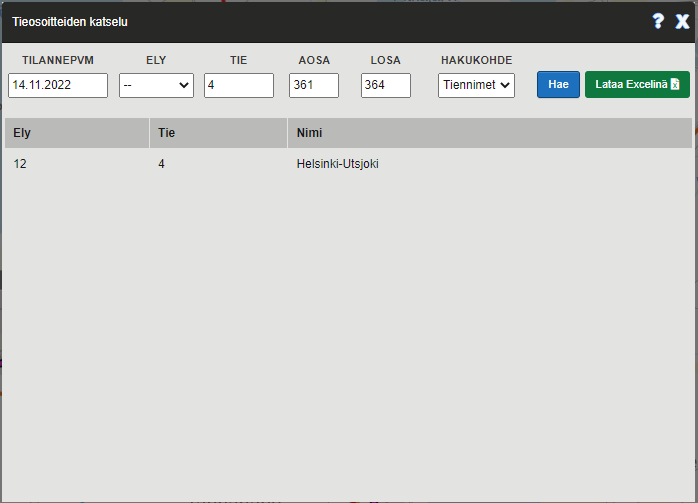
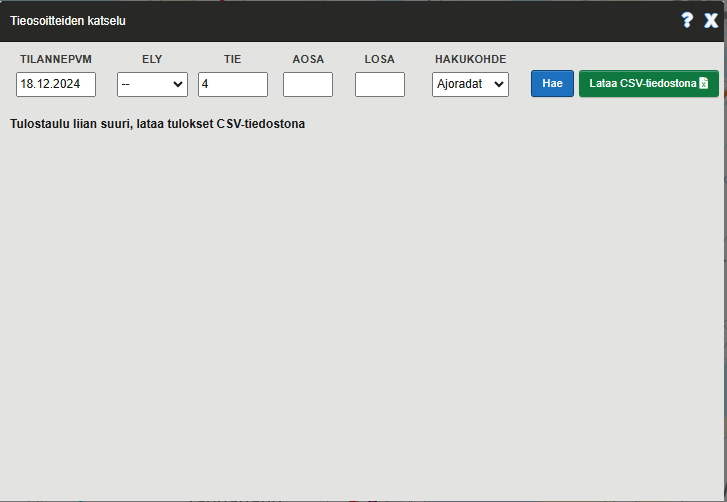
VIITE-3269 switch to CSV download (instead of SheetJS excel export.)
SheetJS library didn't behave as we expected, causing all kinds of problems with dates.

New implementation allows users to download data in a CSV-file. The data should stay untouched this way and there shouldn't be any issues with dates no more.

diff --git a/viite-UI/src/view/RoadAddressBrowserWindow.js b/viite-UI/src/view/RoadAddressBrowserWindow.js
@@ -325,13 +325,14 @@
             $('.road-address-browser-modal-overlay').remove();
         }
 
-        function exportDataAsExcelFile() {
+        function exportDataAsCsvFile() {
+            function arrayToCSV(data) {
+                return data.map(row => row.join(";")).join("\n");
+            }
+
             const params = me.getSearchParams();
-            const fileNameString = "Viite_" + params.target + "_" + params.situationDate + "_" + params.ely + "_" + params.roadNumber + "_" + params.minRoadPartNumber + "_" + params.maxRoadPartNumber + ".xlsx";
+            const fileNameString = "Viite_" + params.target + "_" + params.situationDate + "_" + params.ely + "_" + params.roadNumber + "_" + params.minRoadPartNumber + "_" + params.maxRoadPartNumber + ".csv";
             const fileName = fileNameString.replaceAll("undefined", "-");
-            const options = {
-                cellDates: false  // To prevent Sheetjs from converting dates to avoid unwanted formatting
-            };
 
             let data = [];
             switch (params.target) {
@@ -352,22 +353,22 @@
                     break;
                 default:
             }
-            // Create a web worker
-            const worker = new Worker("src/utils/SheetJsWorker.js");
-            // Send data to the web worker to process
-            worker.postMessage([data, options]);
-            applicationModel.addSpinner();
-            worker.onmessage = function(event) { // listen to messages from the web worker
-                const worksheet = event.data;
-                const workbook = XLSX.utils.book_new();
-                XLSX.utils.book_append_sheet(workbook, worksheet);
-                XLSX.writeFile(workbook, fileName);
-                applicationModel.removeSpinner();
-            };
-            worker.onerror = (event) => {
-                applicationModel.removeSpinner();
-                console.log("There was an error with the web worker!", event.message);
-            };
+            let csvContent = "\uFEFF"; // UTF-8 BOM
+            csvContent += arrayToCSV(data);
+
+            // Create a downloadable CSV file
+            const blob = new Blob([csvContent], { type: "text/csv;charset=utf-8;"}); // Create a file like object containing the CSV data
+            const url = URL.createObjectURL(blob); // Create a temporary URL for the file
+            const link = document.createElement("a");
+            link.setAttribute("href", url)
+            link.setAttribute("download", fileName)
+
+            // Append the link and trigger download
+            document.body.appendChild(link);
+            link.click();
+
+            // Cleanup
+            document.body.removeChild(link);
         }
 
         function getData() {
@@ -481,15 +482,12 @@
 
         function showData(table) {
             roadAddrBrowserWindow.append(table);
-            //TODO VIITE-3269 CSV export to replace old Excel export
-            //$('#exportAsExcelFile').prop("disabled", false); // enable Excel download button
+            $('#exportAsCsvFile').prop("disabled", false); // enable CSV download button
         }
 
         function showTableTooBigNotification() {
-            roadAddrBrowserWindow.append($('<p id="tableNotification"><b>Tulostaulu liian suuri</b></p>'));
-            //TODO VIITE-3269 CSV export to replace old Excel export
-            //roadAddrBrowserWindow.append($('<p id="tableNotification"><b>Tulostaulu liian suuri, lataa tulokset Excel-taulukkona</b></p>'));
-            //$('#exportAsExcelFile').prop("disabled", false); // enable Excel download button
+            roadAddrBrowserWindow.append($('<p id="tableNotification"><b>Tulostaulu liian suuri, lataa tulokset CSV-tiedostona</b></p>'));
+            $('#exportAsCsvFile').prop("disabled", false); // enable CSV download button
         }
 
         function showNoResultsFoundNotification() {
@@ -518,11 +516,10 @@
             });
         }
 
-        function clearResultsAndDisableExcelButton() {
+        function clearResultsAndDisableCsvButton() {
             me.setSearchResults([]); // empty the search results
             $('.road-address-browser-window-results-table').remove(); // empty the result table
-            //TODO VIITE-3269 CSV export to replace old Excel export
-            //$('#exportAsExcelFile').prop("disabled", true); //disable Excel download button
+            $('#exportAsCsvFile').prop("disabled", true); //disable CSV download button
             $('#tableNotification').remove(); // remove notification if present
         }
 
@@ -530,7 +527,7 @@
 
             // if any of the input fields change (the input fields are child elements of this wrapper/parent element)
             document.getElementById('roadAddressBrowser').onchange = function () {
-                clearResultsAndDisableExcelButton();
+                clearResultsAndDisableCsvButton();
             };
 
             document.getElementById('roadAddrInputRoad').oninput = function () {
@@ -575,17 +572,16 @@
                 }
             };
 
-            //TODO VIITE-3269 CSV export to replace old Excel export
-            // roadAddrBrowserWindow.on('click', '#exportAsExcelFile', function () {
-            //     exportDataAsExcelFile();
-            //     return false; // cancel form submission
-            // });
+            roadAddrBrowserWindow.on('click', '#exportAsCsvFile', function () {
+                exportDataAsCsvFile();
+                return false; // cancel form submission
+            });
             roadAddrBrowserWindow.on('click', 'button.close', function () {
                 hide();
             });
 
             roadAddrBrowserWindow.on('click', '#fetchRoadAddresses', function () {
-                clearResultsAndDisableExcelButton();
+                clearResultsAndDisableCsvButton();
                 getData();
                 return false; // cancel form submission
             });

diff --git a/viite-UI/src/view/RoadAddressChangesBrowserWindow.js b/viite-UI/src/view/RoadAddressChangesBrowserWindow.js
@@ -96,16 +96,13 @@
             }
             else if (results.length <= ViiteConstants.MAX_ROWS_TO_DISPLAY) {
                 roadAddressChangesBrowserWindow.append(table);
-                //TODO VIITE-3269 CSV export to replace old Excel export
-                //$('#exportAsExcelFile').prop("disabled", false); // enable Excel download button
+                $('#exportAsCsvFile').prop("disabled", false); // enable CSV download button
             }
             else {
-                // hide the results and notify user to download result table as Excel file
-                //TODO VIITE-3269 CSV export to replace old Excel export
-                //roadAddressChangesBrowserWindow.append($('<p id="tableNotification"><b>Tulostaulu liian suuri, lataa tulokset Excel -taulukkona</b></p>'));
-                roadAddressChangesBrowserWindow.append($('<p id="tableNotification"><b>Tulostaulu liian suuri</b></p>'));
+                // hide the results and notify user to download result table as CSV file
+                roadAddressChangesBrowserWindow.append($('<p id="tableNotification"><b>Tulostaulu liian suuri, lataa tulokset CSV -taulukkona</b></p>'));
                 roadAddressChangesBrowserWindow.append(table.hide());
-                //$('#exportAsExcelFile').prop("disabled", false); // enable Excel download button
+                $('#exportAsCsvFile').prop("disabled", false); // enable CSV download button
             }
         }
 
@@ -124,16 +121,35 @@
             $('.road-address-browser-modal-overlay').remove();
         }
 
-        function exportDataAsExcelFile() {
+        function exportDataAsCsvFile() {
             const params = me.getSearchParams();
-            const fileNameString = "Viite_" + params.dateTarget + "_" + params.startDate + "_" + params.endDate + "_" + params.ely + "_" + params.roadNumber + "_" + params.minRoadPartNumber + "_" + params.maxRoadPartNumber + ".xlsx";
+            const fileNameString = "Viite_" + params.dateTarget + "_" + params.startDate + "_" + params.endDate + "_" + params.ely + "_" + params.roadNumber + "_" + params.minRoadPartNumber + "_" + params.maxRoadPartNumber + ".csv";
             const fileName = fileNameString.replaceAll("undefined", "-");
-            const options = {
-                cellDates: false  // To prevent Sheetjs from converting dates to avoid unwanted formatting
-            };
-            const wb = XLSX.utils.table_to_book(document.getElementById("roadAddressChangesBrowserTable"), options);
-            /* Export to file (start a download) */
-            XLSX.writeFile(wb, fileName);
+
+            const table = document.getElementById("roadAddressChangesBrowserTable");
+            let csvContent = "\uFEFF"; // UTF-8 BOM
+
+            for (let row of table.rows) {
+                let rowData = [];
+                for (let cell of row.cells) {
+                    rowData.push(cell.innerText);
+                }
+                csvContent += rowData.join(";") + "\n"; // Join cells with commas
+            }
+
+            // Create a downloadable CSV file
+            const blob = new Blob([csvContent], { type: "text/csv;charset=utf-8;"}); // Create a file like object containing the CSV data
+            const url = URL.createObjectURL(blob); // Create a temporary URL for the file
+            const link = document.createElement("a");
+            link.setAttribute("href", url)
+            link.setAttribute("download", fileName)
+
+            // Append the link and trigger download
+            document.body.appendChild(link);
+            link.click();
+
+            // Cleanup
+            document.body.removeChild(link);
         }
 
         function getData() {
@@ -256,10 +272,9 @@
             });
         }
 
-        function clearResultsAndDisableExcelButton() {
+        function clearResultsAndDisableCsvButton() {
             $('.road-address-browser-window-results-table').remove(); // empty the result table
-            //TODO VIITE-3269 CSV export to replace old Excel export
-            //$('#exportAsExcelFile').prop("disabled", true); //disable Excel download button
+            $('#exportAsCsvFile').prop("disabled", true); //disable CSV download button
             $('#tableNotification').remove(); // remove notification if present
         }
 
@@ -267,7 +282,7 @@
 
             // if any of the input fields change (the input fields are child elements of this wrapper/parent element)
             document.getElementById('roadAddressChangesBrowser').onchange = function () {
-                clearResultsAndDisableExcelButton();
+                clearResultsAndDisableCsvButton();
             };
 
             document.getElementById('roadAddrChangesInputRoad').oninput = function () {
@@ -287,19 +302,18 @@
                     this.value = this.value.slice(0, ViiteConstants.MAX_LENGTH_FOR_ROAD_PART_NUMBER);
                 }
             };
-
-            //TODO VIITE-3269 CSV export to replace old Excel export
-            // roadAddressChangesBrowserWindow.on('click', '#exportAsExcelFile', function () {
-            //     exportDataAsExcelFile();
-            //     return false; // cancel form submission
-            // });
+            
+            roadAddressChangesBrowserWindow.on('click', '#exportAsCsvFile', function () {
+                exportDataAsCsvFile();
+                return false; // cancel form submission
+            });
 
             roadAddressChangesBrowserWindow.on('click', 'button.close', function () {
                 hide();
             });
 
             roadAddressChangesBrowserWindow.on('click', '#fetchRoadAddressChanges', function () {
-                clearResultsAndDisableExcelButton();
+                clearResultsAndDisableCsvButton();
                 getData();
                 return false; // cancel form submission
             });

diff --git a/viite-UI/src/view/RoadAddressBrowserForm.js b/viite-UI/src/view/RoadAddressBrowserForm.js
@@ -33,7 +33,7 @@
                         createRoadPartNumberInputFields("roadAddrChangesInputStartPart", "roadAddrChangesInputEndPart") +
                         '<div class="road-address-browser-form-button-wrapper">' +
                             createSearchButton("fetchRoadAddressChanges") +
-                            createExcelDownloadButton() +
+                            createCsvDownloadButton() +
                         '</div>' +
                 '</form>';
         }
@@ -66,7 +66,7 @@
                         '</div>' +
                         '<div class="road-address-browser-form-button-wrapper">' +
                             createSearchButton("fetchRoadAddresses") +
-                            createExcelDownloadButton() +
+                            createCsvDownloadButton() +
                         '</div>' +
                     '</form>';
         }
@@ -89,10 +89,8 @@
                     '<div class="input-container"><label class="control-label-small">Losa</label><input type="number" min="1" max="999" id="' + idEnd + '"/></div>';
         }
 
-        function createExcelDownloadButton() {
-            //TODO VIITE-3269 CSV export to replace old Excel export
-            //return '<button id="exportAsExcelFile" class="download-excel btn" disabled>Lataa Excelinä <i class="fas fa-file-excel"></i></button>';
-            return '';
+        function createCsvDownloadButton() {
+            return '<button id="exportAsCsvFile" class="download-csv btn" disabled>Lataa CSV-tiedostona <i class="fas fa-file-excel"></i></button>';
         }
 
         function createSearchButton(id) {

diff --git a/viite-UI/tmpl/index.html b/viite-UI/tmpl/index.html
@@ -48,7 +48,6 @@
 <script type="text/javascript" src="node_modules/moment/min/moment.min.js"></script>
 <script type="text/javascript" src="node_modules/lodash/lodash.js"></script>
 <script type="text/javascript" src="node_modules/backbone/backbone.js"></script>
-<script lang="javascript" src="node_modules/xlsx/dist/xlsx.mini.min.js"></script>
 <script type="text/javascript">
     if (window.__backboneAgent) {
         window.__backboneAgent.handleBackbone(Backbone);
@@ -76,7 +75,6 @@
 <script type="text/javascript" src="src/utils/geometry-calculations.js"></script>
 <script type="text/javascript" src="src/utils/LocationInputParser.js"></script>
 <script type="text/javascript" src="src/utils/session.js"></script>
-<script type="text/javascript" src="src/utils/SheetJsWorker.js"></script>
 <script type="text/javascript" src="src/utils/date-utils.js"></script>
 <script type="text/javascript" src="src/utils/backend-utils.js"></script>
 <script type="text/javascript" src="src/utils/ViiteEnumerations.js"></script>

diff --git a/viite-UI/src/less/core/forms.less b/viite-UI/src/less/core/forms.less
@@ -781,7 +781,7 @@ form.roadAddressProject .junction-label-projects.header {
   margin: 5px;
 }
 
-.download-excel {
+.download-csv {
   margin-left: 5px;
   border-color: #175935;
   box-shadow: inset 0 1px 0 rgb(204 227 249 / 33%), 0px 1px 1px 0px rgb(23 23 23 / 25%);
